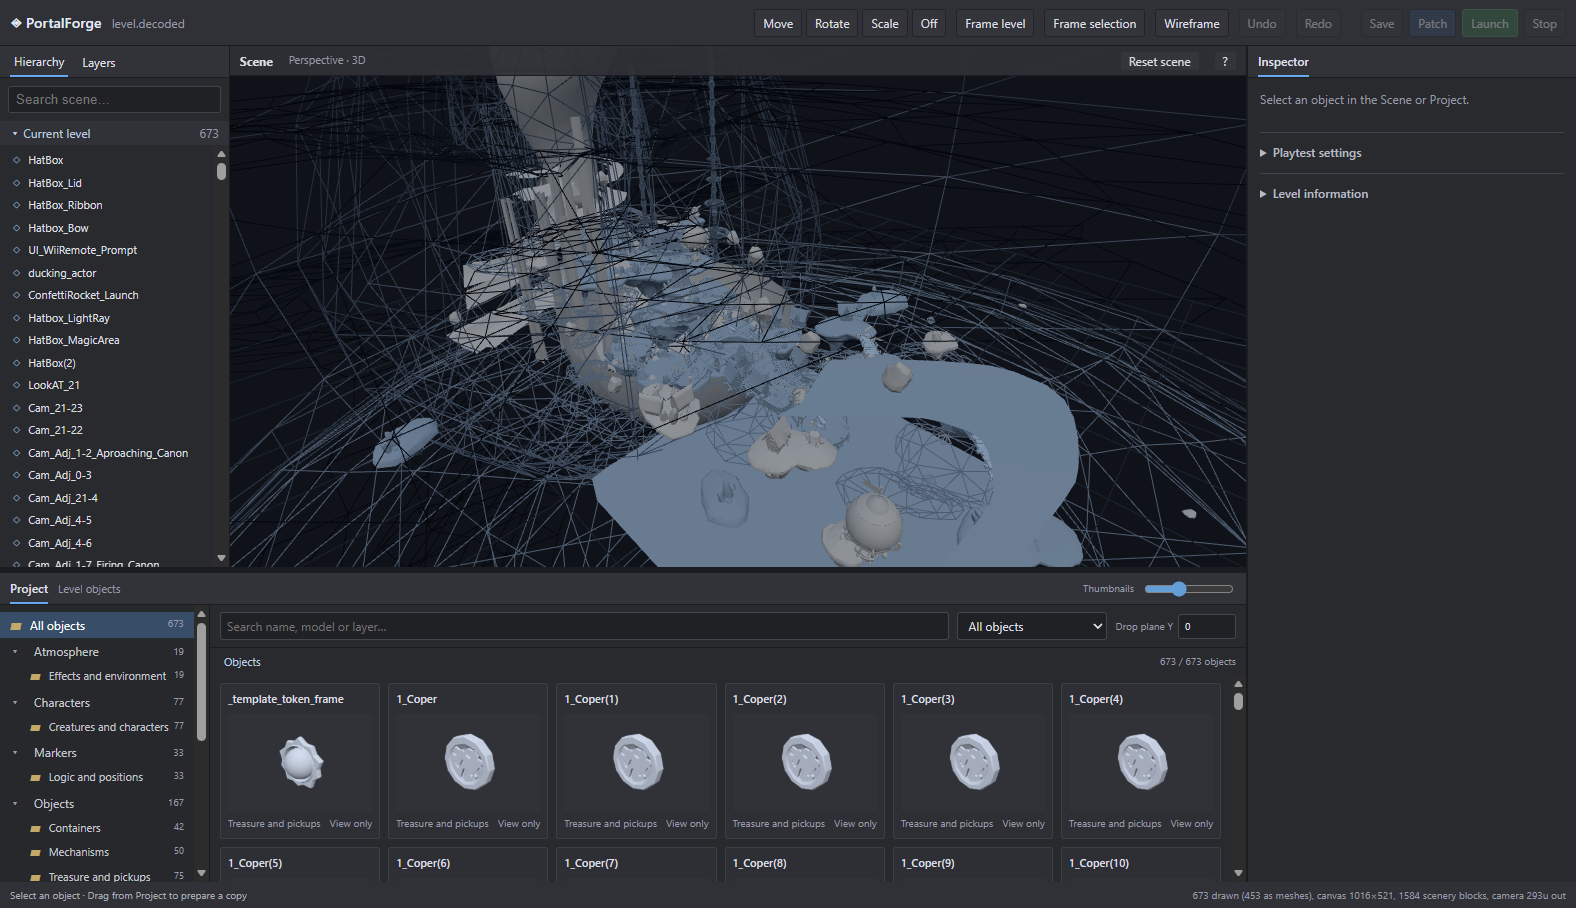
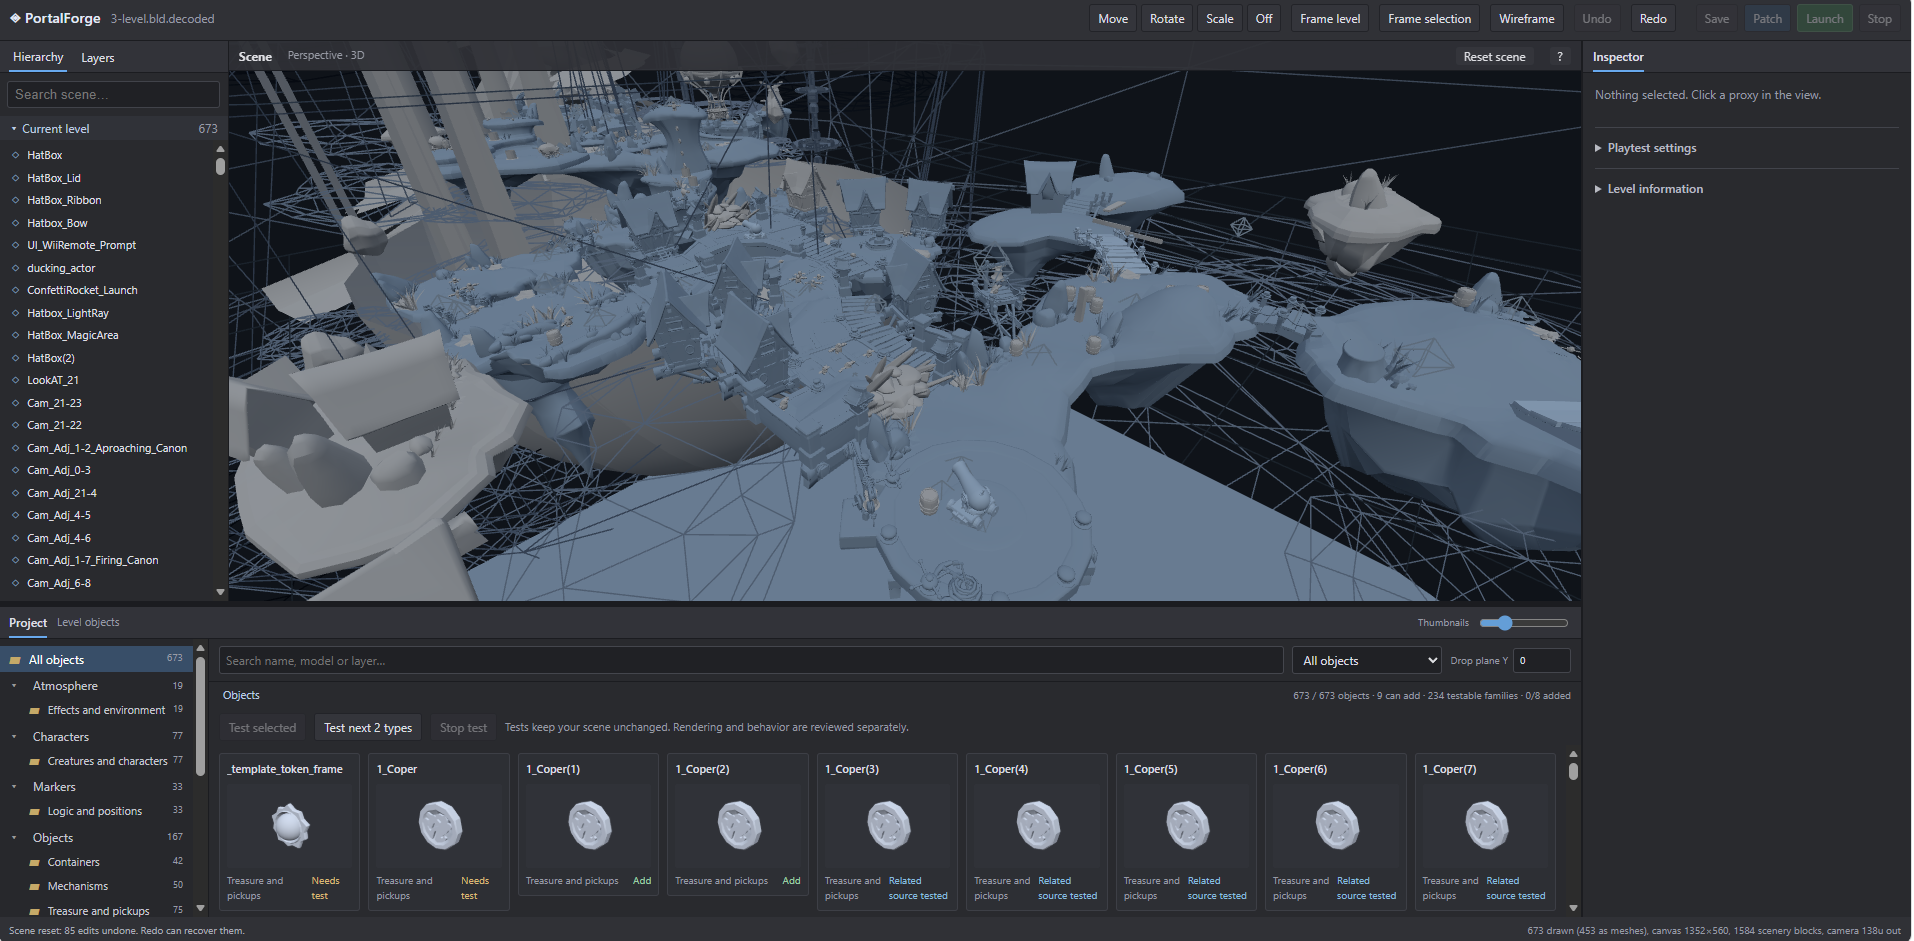
docs(readme): show the editor on the whole level, with the Add verdicts
Replaces the workspace capture with one that shows what the editor now
does: the level's decoded geometry rather than a corner of it, and the
Project cards carrying Add, Needs test or Related source tested instead
of a uniform grid. The caption says what those verdicts mean.

diff --git a/README.md b/README.md
@@ -51,10 +51,15 @@ through Riivolution, exactly the way the retail game reads them.
 
 ![PortalForge editor](docs/images/editor-workspace.png)
 
-A Unity-like workspace: **Hierarchy** and layers on the left, the **Scene** in the middle with real decoded
-meshes and Move/Rotate/Scale gizmos, the **Inspector** on the right (position, model, behaviour script, layers,
-shared state, evidence and safety flags), and the **Project** browser at the bottom with categories and 3D
-thumbnails generated from the level's own geometry.
+A Unity-like workspace: **Hierarchy** and layers on the left, the **Scene** in the middle with the level's real
+decoded meshes and Move/Rotate/Scale gizmos, the **Inspector** on the right (position, model, behaviour script,
+layers, shared state, evidence and safety flags), and the **Project** browser at the bottom with categories and
+3D thumbnails generated from the level's own geometry.
+
+Each card in Project carries its verdict rather than a guess: **Add** for a source with a confirmed native
+recipe, **Needs test** for one that is structurally eligible but never booted, **Related source tested** when a
+sibling of the same family was the one actually proven. The counters read the same way — 673 objects,
+9 that can be added, 234 testable families, and the addition budget used out of 8.
 
 The toolbar chain is the whole workflow: **Save → Patch → Launch**. Launch owns its own Dolphin, runs the
 tutorial macro, captures every step and closes cleanly — or drops you straight into the level to play it yourself.
